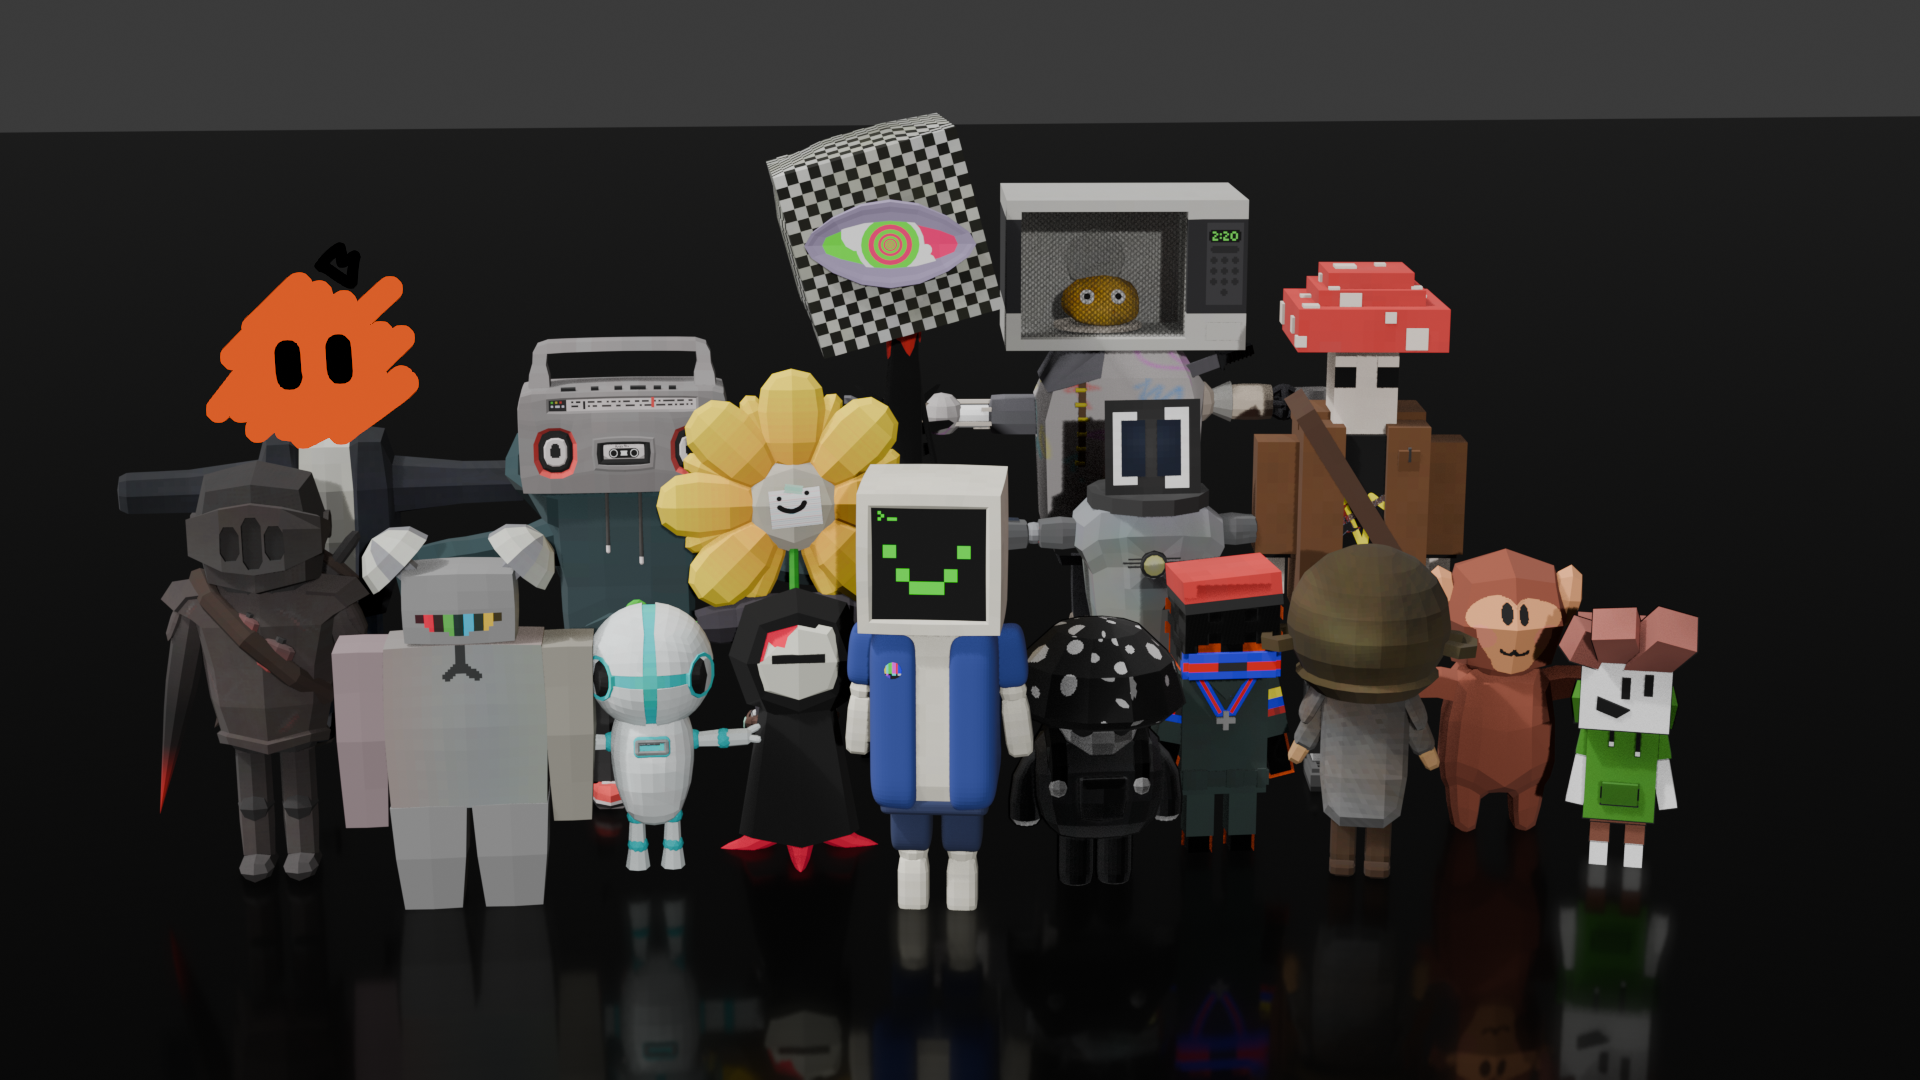
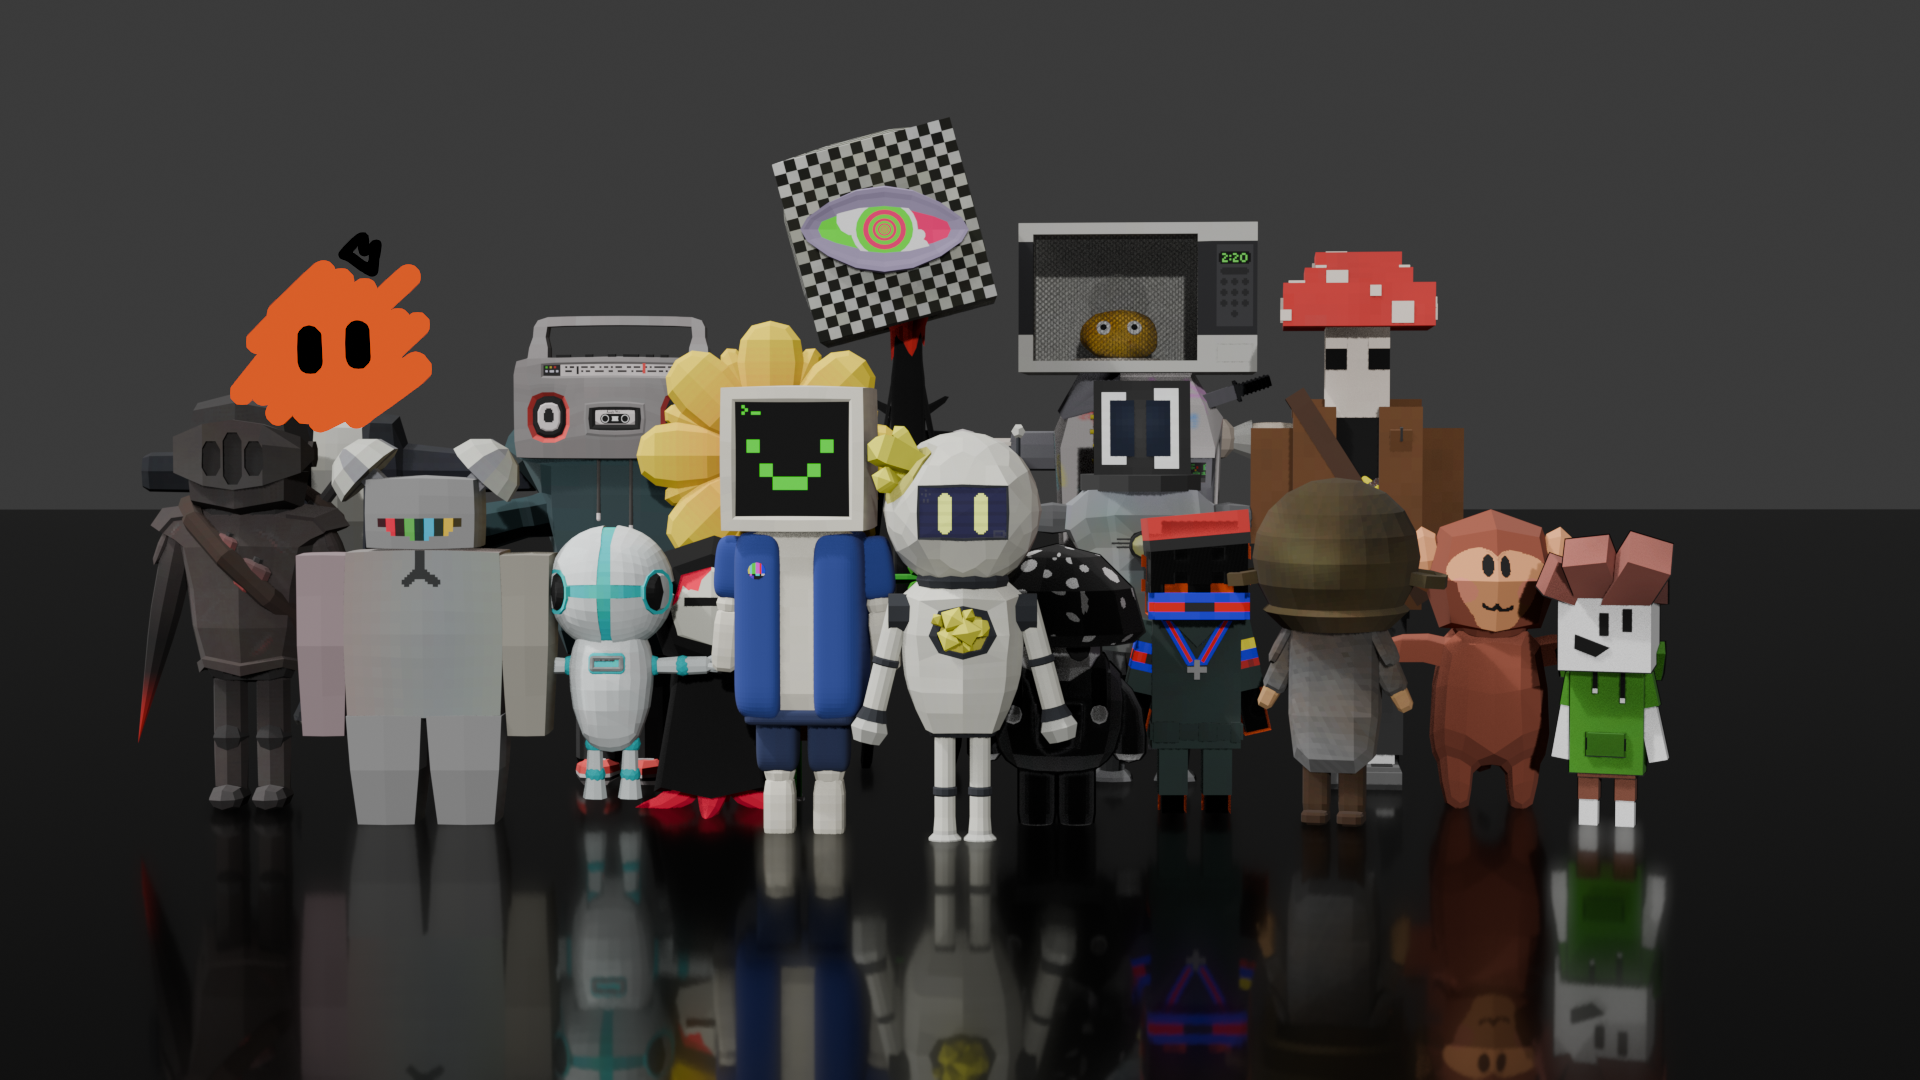
Updated homepage, gallery, about page and cover image
New character Oma now on homepage and gallery and in updated cover image

diff --git a/gallery.html b/gallery.html
@@ -31,22 +31,22 @@
         <div class="area">
             <div class="card">
                 <div class="content">
+                    <h1>Oma</h1>
+                    <p>One of my favorite characters, used as my profile picture of most websites</p>
+                </div>
+                <img src="images/oma.png">
+            </div>
+            <div class="card">
+                <div class="content">
                     <h1>Screeny</h1>
-                    <p>My first finished character and the photo I use as my profile picture on most websites</p>
+                    <p>My first finished character and the photo I use as my profile picture on every other website</p>
                 </div>
                 <img loading="lazy" src="images/screeny.png">
             </div>
             <div class="card">
                 <div class="content">
-                    <h1>Freeman</h1>
-                    <p>My most expressive model as I am able to freely move the eyes to make countless expressions</p>
-                </div>
-                <img loading="lazy" src="images/freeman.png">
-            </div>
-            <div class="card">
-                <div class="content">
                     <h1>Kap</h1>
-                    <p>Character made with only cubes and used to test out "rigging" in blockbench.  One of my older models and hasnt relly kept up with my style.</p>
+                    <p>Character made with only cubes and used to test out "rigging" in blockbench.  One of my older models and hasnt really kept up with my current style.</p>
                 </div>
                 <img loading="lazy" src="images/kap.png">
             </div>
@@ -59,6 +59,13 @@
                     <p>No idea why I made this one but he looks kinda cool</p>
                 </div>
                 <img loading="lazy" src="images/nox.png">
+            </div>
+            <div class="card">
+                <div class="content">
+                    <h1>Freeman</h1>
+                    <p>My most expressive model as I am able to freely move the eyes to make countless expressions</p>
+                </div>
+                <img loading="lazy" src="images/freeman.png">
             </div>
             <div class="card">
                 <div class="content">

diff --git a/index.html b/index.html
@@ -28,15 +28,16 @@
             </div>
         </div>
         <div class="largetext">
-            <h1>Click on the images to view in fullscreen</h1>
+            <h1>Some of my best and most recent renders</h1>
+            <h2>Click on the images to view in fullscreen</h2>
         </div>
         <div class="area">
             <div class="card">
                 <div class="content">
-                    <h1>Screeny</h1>
-                    <p>My first finished character and the photo I use as my profile picture on most websites</p>
+                    <h1>Oma</h1>
+                    <p>One of my favorite characters, used as my profile picture of most websites</p>
                 </div>
-                <img src="images/screeny.png">
+                <img src="images/oma.png">
             </div>
             <div class="card">
                 <div class="content">

diff --git a/about.html b/about.html
@@ -19,7 +19,7 @@
         <a href="commission.html"><span>Commission</span></a>
     </nav>
     <div class="body-content">
-        <div class="card"><img src="images/screeny.png">
+        <div class="card"><img src="images/oma.png">
             <h1>Hi I'm Amo</h1>
             <p>I'm a 3D artist, I make my models in blockbench and blender and enjoy making random stuff in my free time</p>
             <p>When I'm not making 3D models I enjoy playing video games, playing guitar and (occasionaly) coding</p>
